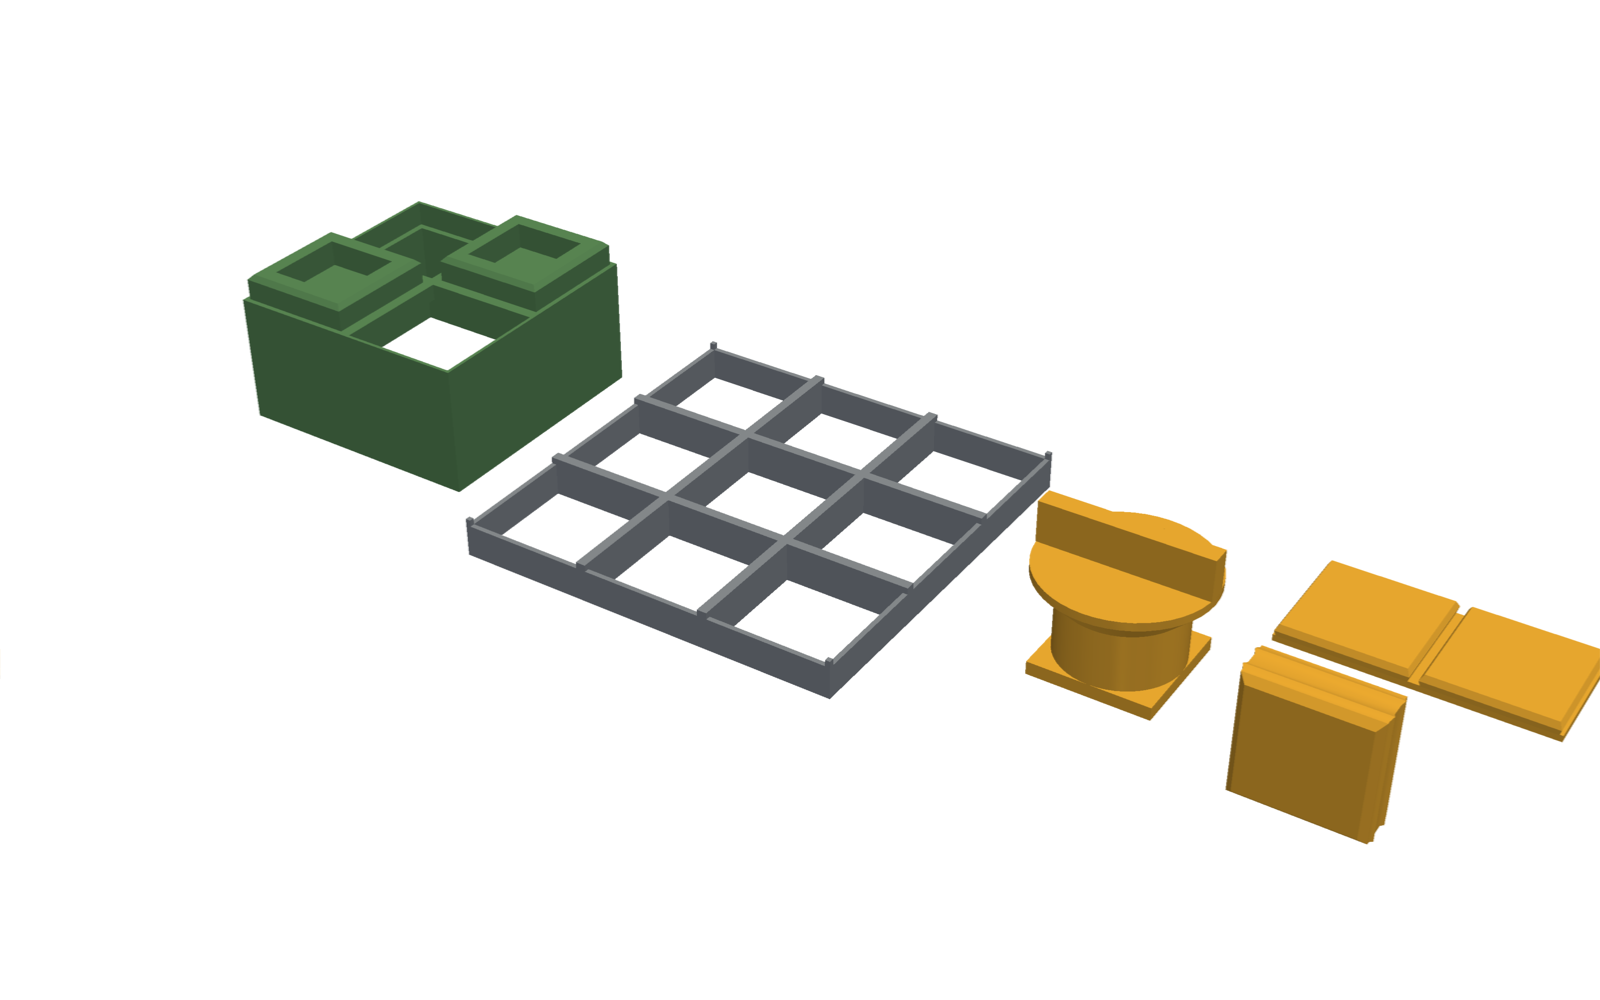
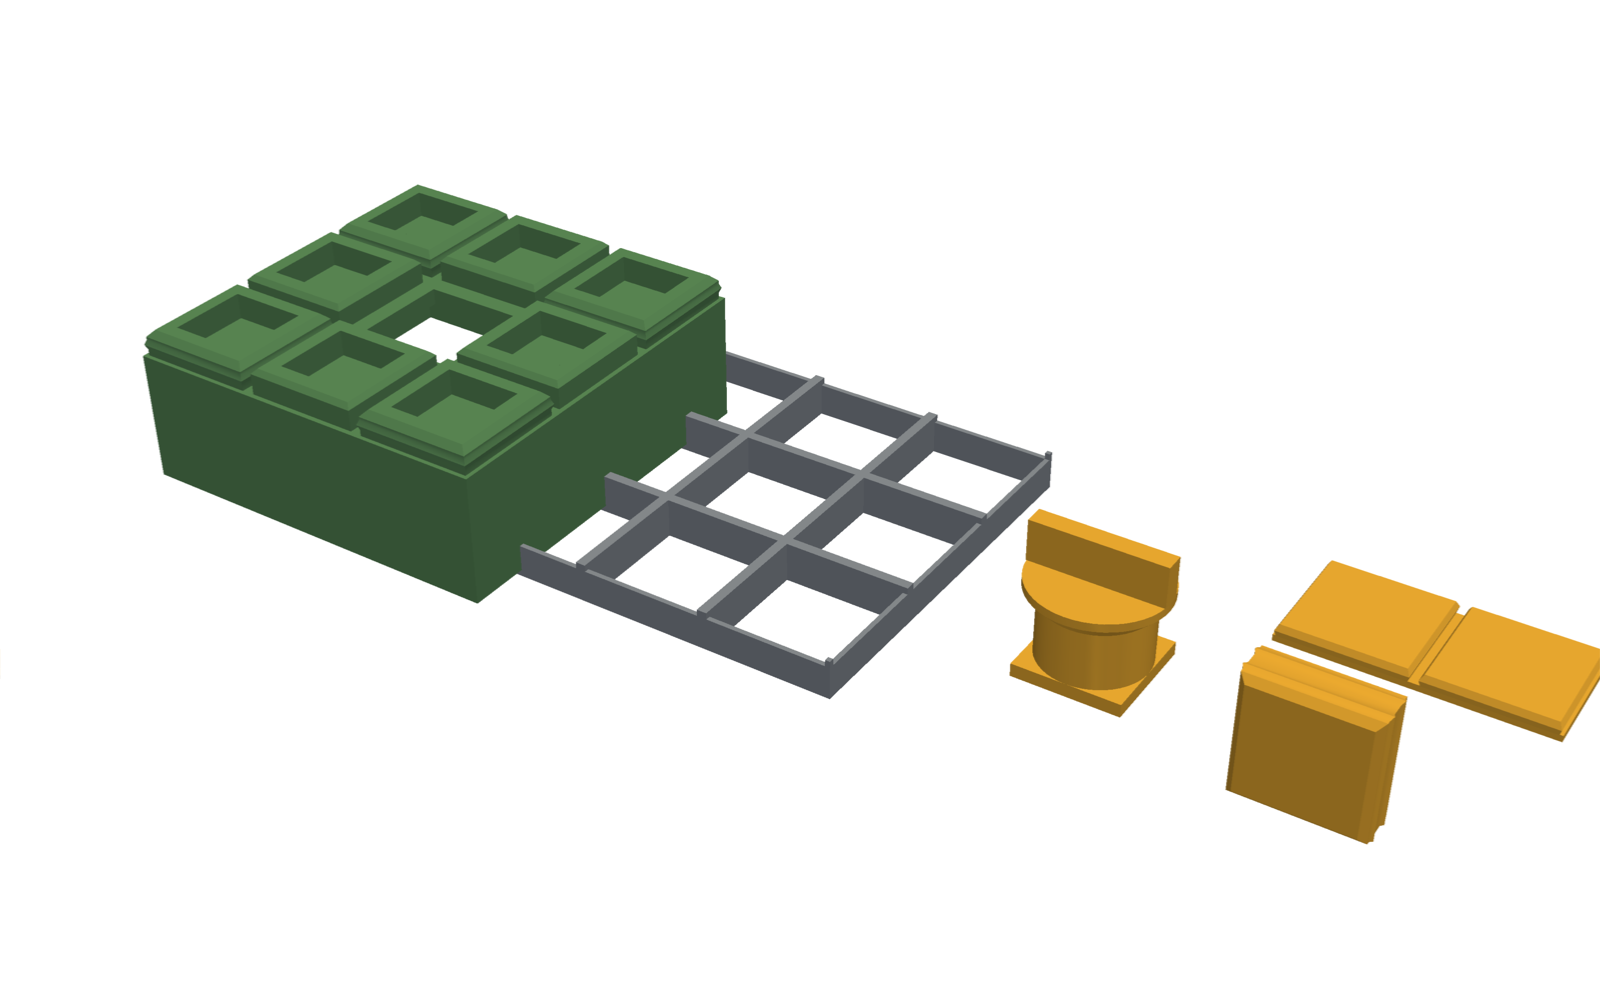
Add screw grid, bed-sized plates, key cell rule and detail renders
screwGrid spreads any number of screw posts over a plate. maxCells sizes a
plate to a bed. On coarse pitches the twist key is smaller than the cell so
its cap stays inside one cell, and bins reject key cells that sit against a
wall. Renders for the twist key, the seam joint and a full-bed wall plate.

Claude-Session: https://claude.ai/code/session_01KDnPvmWKCwKSQebv9zqeFg

Changed region(s): [[0.0625, 0.186, 0.4688, 0.62], [0.625, 0.496, 0.7812, 0.713]]

diff --git a/designer/src/build.ts b/designer/src/build.ts
@@ -16,14 +16,19 @@ const n = (mm: number) => {
 const drawerOpts: P.DrawerOpts = { nx: n(96), nz: n(48), ny: n(128), wall: 1.6, slide: 0.4 };
 const sprueOpts: P.SprueOpts = { ...P.SPRUE, nx: n(96), slotU: n(16) };
 const P12 = n(96);
+const BED = Number(process.argv[4] ?? 250);
+const full = P.maxCells(s, BED);
 const inset = 1;
 const edge = P12 - 2;
 
 const parts: Record<string, Solid> = {
   plate_desk_96: P.plate(s, { cols: P12, rows: P12 }),
   plate_wall_96: P.plate(s, { cols: P12, rows: P12, screws: [[inset, inset], [edge, inset], [inset, edge], [edge, edge]] }),
+  [`plate_desk_bed${BED}`]: P.plate(s, { cols: full, rows: full }),
+  [`plate_wall_bed${BED}_9screws`]: P.plate(s, { cols: full, rows: full, screws: P.screwGrid(full, full, 3, 3) }),
+  [`plate_wall_bed${BED}_4screws`]: P.plate(s, { cols: full, rows: full, screws: P.screwGrid(full, full, 2, 2) }),
   bin_32x48x32: P.bin(s, { nx: n(32), ny: n(48), nz: 32 / U }),
-  bin_32x32x16_lock: P.bin(s, { nx: n(32), ny: n(32), nz: 16 / U, lock: U === 8 ? [[1, 1], [2, 2]] : [[0, 0], [1, 1]], grip: U === 8 ? "corners" : "none" }),
+  bin_48x48x16_lock: P.bin(s, { nx: n(48), ny: n(48), nz: 16 / U, lock: U === 8 ? [[1, 1], [4, 4]] : [[1, 1]] }),
   paint_cell_hex6: P.paintRack(s, P.DROPPER),
   paint_cell_lame4: P.paintRack(s, { ...P.DROPPER, lobes: 4 }),
   paint_rack_3x2_lock: P.paintRack(s, { ...P.DROPPER, cols: 3, rows: 2, lockStrip: true }),
@@ -44,6 +49,9 @@ const printAs: Record<string, [number, number, number]> = {
   plate_desk_96: [180, 0, 0],
   plate_wall_96: [180, 0, 0],
   fit_test_plate_48: [180, 0, 0],
+  [`plate_desk_bed${BED}`]: [180, 0, 0],
+  [`plate_wall_bed${BED}_9screws`]: [180, 0, 0],
+  [`plate_wall_bed${BED}_4screws`]: [180, 0, 0],
   drawer_shell_96x48x128: [-90, 0, 0],
   wall_shelf_96x64x48: [0, -90, 0],
 };
@@ -74,10 +82,34 @@ const asm: Record<string, Solid> = {
   key_1: key.translate([112 + (U === 8 ? 12 : 24), lockY, keyZ]),
   key_2: key.translate([112 + 96 - (U === 8 ? 12 : 24), lockY, keyZ]),
   bin_a: at(parts.bin_32x48x32, 112, 80),
-  bin_c: at(parts.bin_32x32x16_lock, 144, 80),
-  paint_single: at(parts.paint_cell_lame4, 176, 80),
+  bin_c: at(parts.bin_48x48x16_lock, 144, 80),
   sprue_rack: at(parts.sprue_rack_96x80, 112, 128),
 };
 for (const [name, solid] of Object.entries(asm)) writeStl(`${out}/assembly/${name}.stl`, solid);
+
+// Twist key demo: a bin with two key cells on a small plate, one key inserted, one turned.
+const kc = (i: number) => (i + 0.5) * U;
+const dn = { nx: n(80), ny: n(48) };
+const lockCells: [number, number][] = [[n(16), n(16)], [dn.nx - 1 - n(16), n(16)]];
+const rawKey = P.twistKey(s, s.floorT + s.plateT);
+const off = n(16) * U;
+const demo: Record<string, Solid> = {
+  plate: P.plate(s, { cols: dn.nx + 2 * n(16), rows: dn.ny + 2 * n(16) }),
+  bin: P.bin(s, { ...dn, nz: 16 / U, lock: lockCells, grip: "none" }).translate([off, off, 0]),
+  key_inserted: rawKey.translate([off + kc(lockCells[0][0]), off + kc(lockCells[0][1]), keyZ]),
+  key_locked: key.translate([off + kc(lockCells[1][0]), off + kc(lockCells[1][1]), keyZ]),
+};
+for (const [name, solid] of Object.entries(demo)) writeStl(`${out}/key_demo/${name}.stl`, solid);
+
+// Seam demo: two plates edge to edge with joiners under the seam.
+const sj = P.seamJoiner(s).translate([0, 0, -s.plateT]);
+const left = P.plate(s, { cols: 4, rows: 4, screws: P.screwGrid(4, 4, 2, 2) });
+const right = left.translate([4 * U, 0, 0]);
+const joiners = [0, 3].map((j) => sj.translate([4 * U, kc(j), 0]));
+const seamOverlap = joiners.reduce((a, q) => a + q.intersect(left).volume() + q.intersect(right).volume(), 0);
+writeStl(`${out}/seam_demo/plate_left.stl`, left);
+writeStl(`${out}/seam_demo/plate_right.stl`, right);
+joiners.forEach((q, i) => writeStl(`${out}/seam_demo/joiner_${i}.stl`, q));
+console.log(`largest plate on a ${BED} mm bed: ${full} x ${full} cells = ${full * U} mm; seam joiner overlap ${seamOverlap.toFixed(2)} mm3 for 2 joiners`);
 console.log(`plate 208 mm: ${((big.volume() / 1000) * 1.27).toFixed(1)} g solid PETG, ${n(208) ** 2} cells`);
 console.log(`pitch ${U} mm: built ${Object.keys(parts).length} parts in ${((performance.now() - t0) / 1000).toFixed(2)} s, peak RSS ${(process.memoryUsage().rss / 1e6).toFixed(0)} MB`);

diff --git a/designer/src/parts.ts b/designer/src/parts.ts
@@ -17,6 +17,8 @@ export interface System {
   bodyGap: number; // gap between neighbouring module bodies
   seamRelief: number; // relief under perimeter walls for the seam joiner
   floorT: number; // module floor
+  keyHead: number; // twist key head, square side
+  keyCapR: number; // twist key cap radius
   binWall: number;
 }
 
@@ -41,6 +43,9 @@ export function makeSystem(u: number, over: Partial<System> = {}): System {
     seamRelief: 0.8,
     floorT: 2,
     binWall: 1.2,
+    // On coarse pitches the key is smaller than the cell so its cap stays inside one cell.
+    keyHead: u >= 12 ? bossW - 1.6 : bossW,
+    keyCapR: u >= 12 ? u / 2 : bossW / 2 + 2.8,
     ...over,
   };
 }
@@ -59,6 +64,25 @@ export interface PlateOpts {
   screws?: [number, number][];
   screwD?: number;
 }
+
+/**
+ * Evenly spread screw cells: nx columns by ny rows of screws, kept `inset` cells in from the
+ * edge. Use the result as PlateOpts.screws. One screw per axis lands on the centre cell.
+ */
+export function screwGrid(cols: number, rows: number, nx: number, ny: number, inset = 1): [number, number][] {
+  const line = (cells: number, count: number) => {
+    const lo = Math.min(inset, Math.floor((cells - 1) / 2));
+    const hi = cells - 1 - lo;
+    if (count <= 1) return [Math.floor((cells - 1) / 2)];
+    return [...new Set(Array.from({ length: count }, (_, k) => Math.round(lo + (k * (hi - lo)) / (count - 1))))];
+  };
+  const out: [number, number][] = [];
+  for (const i of line(cols, nx)) for (const j of line(rows, ny)) out.push([i, j]);
+  return out;
+}
+
+/** Largest square plate, in cells, that fits a bed with a margin all round. */
+export const maxCells = (s: System, bedMm: number, marginMm = 5) => Math.floor((bedMm - 2 * marginMm) / s.u);
 
 /** Open lattice. Top face at z = 0. Print top face down. */
 export function plate(s: System, o: PlateOpts): Solid {
@@ -166,7 +190,7 @@ export function foot(s: System, o: FootOpts): Solid {
 
 /** Through holes in a module floor that line up with plate cells and accept a twist key. */
 export function lockHoles(s: System, cells: [number, number][], depth: number): Solid {
-  const h = cellHole(s);
+  const h = s.keyHead + 0.4;
   return union(cells.map(([i, j]) => box(cx(s, i) - h / 2, cx(s, j) - h / 2, -1, h, h, depth + 2)));
 }
 
@@ -175,9 +199,9 @@ export function lockHoles(s: System, cells: [number, number][], depth: number): 
 /** Twist key. Square head passes a cell, a 45 degree turn puts its corners under the walls. */
 export function twistKey(s: System, stack: number): Solid {
   const head = 1.6;
-  const r = s.bossW / 2;
+  const r = s.keyHead / 2;
   const neck = stack + 0.1;
-  const capR = r + 2.8;
+  const capR = s.keyCapR;
   const parts = [
     box(-r, -r, 0, 2 * r, 2 * r, head),
     cyl(neck, r).translate([0, 0, head]),
@@ -227,6 +251,11 @@ export function bin(s: System, o: BinOpts): Solid {
   const D = o.ny * s.u - 2 * g;
   const H = o.nz * s.u;
   const w = s.binWall;
+  // A key cap needs clear floor all round, so key cells cannot sit against a bin wall.
+  for (const [i, j] of o.lock ?? []) {
+    const room = Math.min(cx(s, i), o.nx * s.u - cx(s, i), cx(s, j), o.ny * s.u - cx(s, j)) - g - w;
+    if (room < s.keyCapR + 0.2) throw new Error(`key cell ${i},${j} is too close to the bin wall for a ${2 * s.keyCapR} mm cap`);
+  }
   let body = box(g, g, 0, W, D, H).subtract(box(g + w, g + w, s.floorT, W - 2 * w, D - 2 * w, H));
   body = union([body, foot(s, o)]);
   if (o.lock?.length) body = body.subtract(lockHoles(s, o.lock, s.floorT));

diff --git a/tools/render_details.py b/tools/render_details.py
@@ -1,0 +1,57 @@
+"""Detail renders: twist key, seam joiner, wall plate. Usage: python tools/render_details.py stl/proto-u16 docs/img/u16"""
+import sys
+import pyvista as pv
+
+src, dst = sys.argv[1], sys.argv[2]
+pv.OFF_SCREEN = True
+GREY, GREEN, YEL, BLUE = "#8a9099", "#5b8c5a", "#f2b134", "#3f6f8f"
+def mesh(path):
+    return pv.read(path).clean()
+def shade(m):
+    return m.compute_normals(feature_angle=30, split_vertices=True)
+def add(p, m, c, **kw):
+    p.add_mesh(shade(m), color=c, smooth_shading=True, specular=0.15, ambient=0.25, diffuse=0.8, **kw)
+
+d = f"{src}/key_demo"
+plate, binm = mesh(f"{d}/plate.stl"), mesh(f"{d}/bin.stl")
+k_in, k_lock = mesh(f"{d}/key_inserted.stl"), mesh(f"{d}/key_locked.stl")
+key = mesh(f"{src}/twist_key_short.stl")
+
+p = pv.Plotter(off_screen=True, window_size=(2400, 1700), shape=(2, 2)); p.set_background("white")
+# 1 key alone
+p.subplot(0, 0); add(p, key, YEL); p.add_text("1. Twist key as printed, head down", font_size=14, color="black")
+p.camera_position = [(60, -54, 48), (0, 0, 8), (0, 0, 1)]
+# 2 from above: bin on plate, one key square (inserted), one turned
+p.subplot(0, 1)
+add(p, plate, GREY); add(p, binm, GREEN, opacity=1.0); add(p, k_in, YEL); add(p, k_lock, YEL)
+p.add_text("2. From above: left key just inserted, right key turned 45 degrees", font_size=14, color="black")
+p.camera_position = [(56, -90, 120), (56, 40, 2), (0, 0, 1)]
+# 3 from below
+p.subplot(1, 0)
+add(p, plate, GREY); add(p, binm, GREEN); add(p, k_in, YEL); add(p, k_lock, YEL)
+p.add_text("3. From below: turned key with corners under the walls (left), key as inserted (right)", font_size=14, color="black")
+p.camera_position = [(56, -70, -120), (56, 40, -3), (0, 0, -1)]
+# 4 section through the locked key
+p.subplot(1, 1)
+cy = k_lock.center[1]
+cut = dict(normal=(0, 1, 0), origin=(0, cy, 0))
+for m, c in [(plate, GREY), (binm, GREEN), (k_lock, YEL)]:
+    add(p, m.clip_closed_surface(**cut), c)
+p.add_text("4. Section through the locked key: cap on the bin floor, head under the lattice walls", font_size=14, color="black")
+kx = k_lock.center[0]
+p.camera_position = [(kx, cy - 90, 14), (kx, cy, 3), (0, 0, 1)]; p.camera.zoom(1.6)
+p.screenshot(f"{dst}/twist_key.png")
+
+# seam joiner, seen from below
+s = f"{src}/seam_demo"
+p = pv.Plotter(off_screen=True, window_size=(1600, 1000)); p.set_background("white")
+add(p, mesh(f"{s}/plate_left.stl"), GREY); add(p, mesh(f"{s}/plate_right.stl"), BLUE)
+for i in range(2): add(p, mesh(f"{s}/joiner_{i}.stl"), YEL)
+p.camera_position = [(150, -110, -150), (64, 32, -4), (0, 0, -1)]
+p.screenshot(f"{dst}/seam.png")
+
+# full-bed wall plate, back side up (print orientation)
+p = pv.Plotter(off_screen=True, window_size=(1600, 1100)); p.set_background("white")
+add(p, mesh(f"{src}/plate_wall_bed250_9screws.stl"), GREY)
+p.camera_position = [(420, -260, 330), (120, 120, 0), (0, 0, 1)]
+p.screenshot(f"{dst}/wall_plate.png")

diff --git a/tools/render.py b/tools/render.py
@@ -31,7 +31,7 @@ p.screenshot(f"{dst}/assembly.png")
 
 # 2. underside of the interface: bin foot, plate, key
 p = plotter((1600, 1000))
-b = mesh(f"{src}/bin_32x32x16_lock.stl").rotate_x(180).translate((0, 32, 20))
+b = mesh(f"{src}/bin_48x48x16_lock.stl").rotate_x(180).translate((0, 32, 20))
 add(p, b, COL["bin"])
 pl = mesh(f"{src}/fit_test_plate_48.stl").translate((40, -8, 0)); add(p, pl, COL["plate"])
 k = mesh(f"{src}/twist_key_short.stl").translate((100, 4, 0)); add(p, k, COL["key"])
